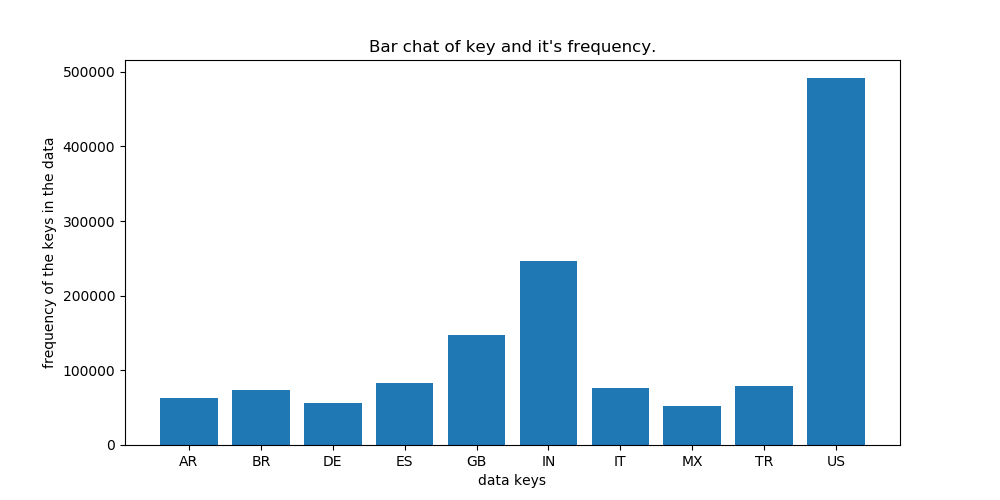
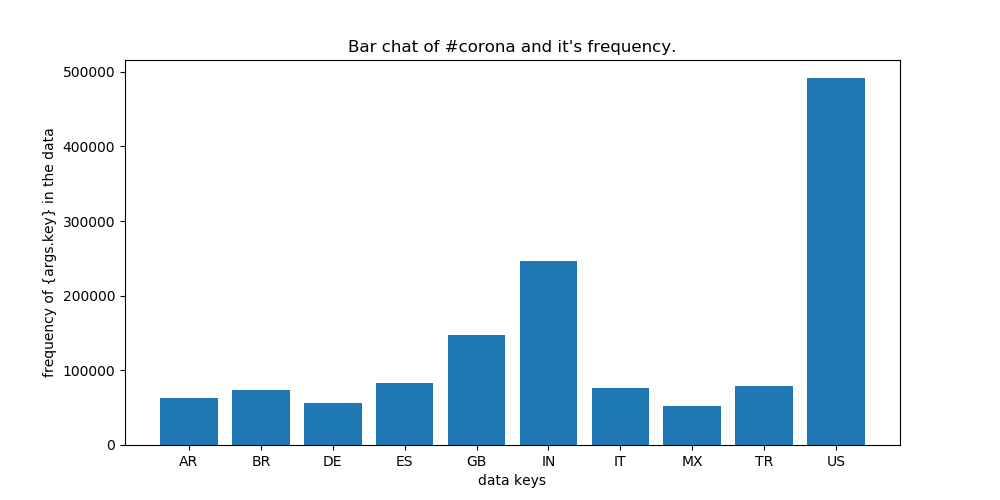
updating readme

Changed region(s): [[0.341, 0.06, 0.682, 0.12], [0.031, 0.27, 0.062, 0.75]]

diff --git a/src/visualize.py b/src/visualize.py
@@ -34,11 +34,9 @@ for k,v in top_ten:
     values.append(v)
 keys.reverse()
 values.reverse()
-print(keys)
-print(values)
 fig = plt.figure(figsize = (10,5))
 plt.bar(keys, sorted(values))
 plt.xlabel('data keys')
-plt.ylabel('frequency of the keys in the data')
-plt.title("Bar chat of key and it's frequency.")
+plt.ylabel('frequency of {args.key} in the data')
+plt.title(f"Bar chat of {args.key} and it's frequency.")
 plt.savefig('./visuals/figs/'+f"{args.filename}.png", format='png')

diff --git a/README.md b/README.md
@@ -189,34 +189,11 @@ After mapping, I reduced all results by totalling the values of a `hashtag` acro
 
 I wrote scripting files for each of the three tasks: `run_map.sh`, `reduce.sh` and `visualize.sh` to automate the the whole process of mapping to reducing then visualizing.
 
-I realized showing like top ten results would be useful to see where of in which languages a certain hashtag was used a lot. This might help in interpretation of the data like may be in that country people are talking about covid a lot. The following command would give you the top most languages that are using `#corona` 
- ```bash  cat ./visuals/top_ten/ten#corona.lang```.
-`Top ten languages
-en : 952158
-es : 286444
-und : 254444
-pt : 67082
-tr : 66974
-it : 63983
-fr : 55896
-hi : 50795
-de : 50674
-nl : 38099
-`
+I realized plotting like top ten results would be useful to see where of in which languages a certain hashtag was used a lot. This might help in interpretation of the data like may be in that country people are talking about covid a lot.
+The following pictures are for `#corona`(I combined corona and coronavirus hashtags to count for corona) and `#코로나바이러스` in top ten languages.
+[!alt text] (https://github.com/Nizeyumukiza/twitter_coronavirus/blob/master/visuals/figs/corona_lang.png)
+[!alt text] (https://github.com/Nizeyumukiza/twitter_coronavirus/blob/master/visuals/figs/%23%EC%BD%94%EB%A1%9C%EB%82%98%EB%B0%94%EC%9D%B4%EB%9F%AC%EC%8A%A4_lang.png)
 
-Or ```bash  cat ./visuals/top_ten/ten#corona.country``` to get the top ten countries that used `#corona`
-`Top ten countries 
-US : 491334
-IN : 246130
-GB : 147078
-ES : 83740
-TR : 79429
-IT : 76597
-BR : 73339
-AR : 62957
-DE : 56107
-MX : 51864
-`
 
 ### Further explorations
 1. Someone would translate korean, chinese, and japanese hashtags and match them to the english hashtags to get overall total all over the world.
